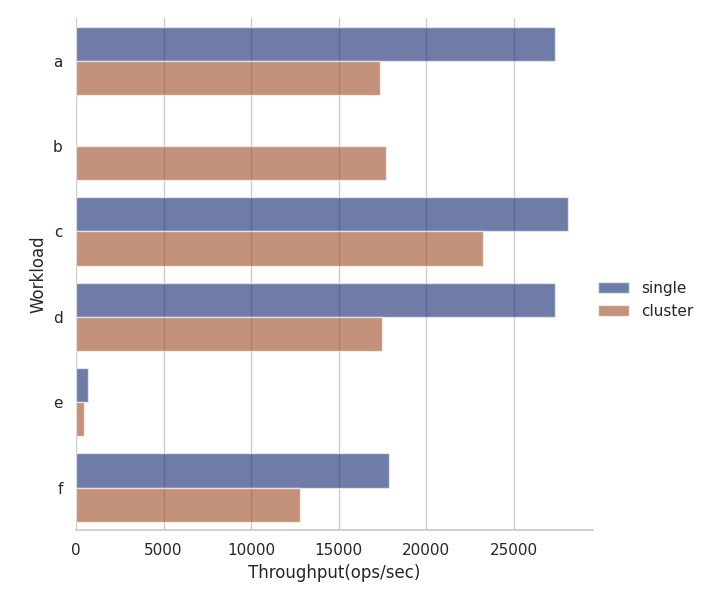
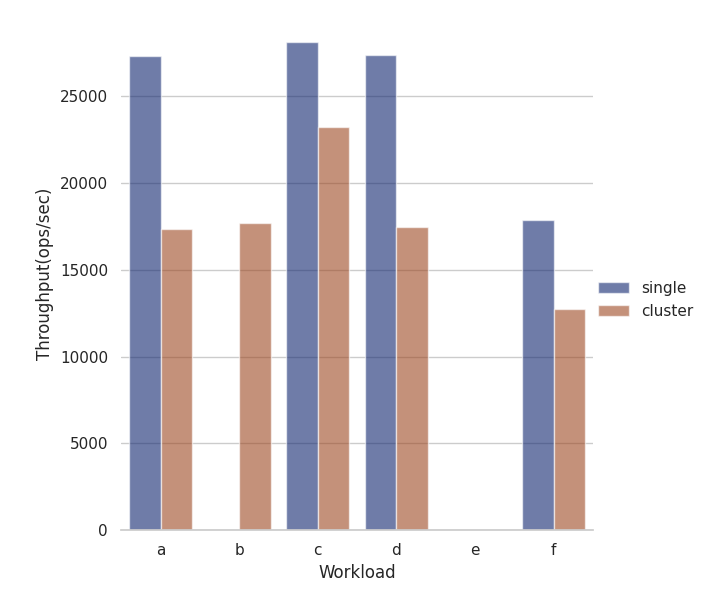
[Pic] Add more pictures

diff --git a/visualize/visual.py b/visualize/visual.py
@@ -13,7 +13,10 @@ pic_path.mkdir(parents=True, exist_ok=True)
 def cat_plot(dataset, x_name, y_name, hue_name, out_name, o='v'):
     sns.set_theme(style="whitegrid")
     
-    workload_order = ['a', 'b', 'c', 'd', 'e', 'f']
+    # if y_name == ''
+    order = None
+    workload_order = sorted(dataset['Workload'].unique())
+    print(workload_order)
     cluster_order = ['single', 'cluster']
     if hue_name == 'Workload':
         hue_order = workload_order
@@ -28,6 +31,7 @@ def cat_plot(dataset, x_name, y_name, hue_name, out_name, o='v'):
         ci="sd", palette="dark", alpha=.6, height=6,
         orient=o,
     )
+    
     g.despine(left=True)
     g.set_axis_labels(x_name, y_name)
     g.legend.set_title("")
@@ -35,39 +39,12 @@ def cat_plot(dataset, x_name, y_name, hue_name, out_name, o='v'):
     g.fig.savefig(fig_path) 
     return fig_path
 
-def bar_plot(dataset, x1_name, x2_name, y_name, hue_name, out_name):
-    sns.set_theme(style="whitegrid")
-
-    # Initialize the matplotlib figure
-    f, ax = plt.subplots(figsize=(6, 15))
-
-    # d = dataset.sort_values("hue_name", ascending=True)
-
-    # Plot the total crashes
-    sns.set_color_codes("pastel")
-    sns.barplot(x=x1_name, y=y_name, data=dataset,
-                label=x1_name, color="b")
-
-    # Plot the crashes where alcohol was involved
-    # sns.set_color_codes("muted")
-    # sns.barplot(x=x2_name, y=y_name, data=dataset,
-    #             label=x2_name, color="b")
-
-    # Add a legend and informative axis label
-    ax.legend(ncol=2, loc="lower right", frameon=True)
-    ax.set(ylabel="y label", xlabel="x label")
-    sns.despine(left=True, bottom=True)
-    
-    fig_path = pic_path / f"{out_name}-bar.png"
-    f.savefig(fig_path) 
-    return fig_path
-
-def draw(db=None, wl=None, rc=None, cm=False, o='v'):
+def draw(db=None, wl=None, rc=None, cm=False, matric='T', o='v'):
     db = db if db else '*'
     wl = wl if wl else '*'
     rc = rc if rc else '*'
-    mn = mn if cm else '*'
-    test_name = f'{db}-{wl}-{rc}-{mn}'
+    cm = cm if cm else '*'
+    test_name = f'{db}-{wl}-{rc}-{cm}'
     res = parse_all(test_name)
     
     data = []
@@ -75,25 +52,84 @@ def draw(db=None, wl=None, rc=None, cm=False, o='v'):
         infos = r[0]
         db, workload, count, cluster = infos['db'], infos['workload'], infos['count'], infos['cluster']
         matrics = r[1]
+        
+        # for m, v in matrics.items():
+        #     print(m, v)
+        # exit(0)
         try:
-            data.append([db, workload, count, cluster, matrics['overall-Throughput(ops/sec)']])
+            a = [db, workload, count, cluster, 
+                 matrics['overall-Throughput(ops/sec)'], matrics['overall-RunTime(ms)']]
+            if 'read-AverageLatency(us)' in matrics:
+                a.append(matrics['read-AverageLatency(us)'])
+                a.append(matrics['read-MinLatency(us)'])
+                a.append(matrics['read-MaxLatency(us)'])
+                a.append(matrics['read-95thPercentileLatency(us)'])
+                a.append(matrics['read-99thPercentileLatency(us)'])
+            data.append(a)
         except:
-            print(matrics)
+            print('error:', db, workload, count, cluster)
 
     if not data:
         return
     
-    df = pd.DataFrame(data, columns=['Database', 'Workload', 'Record Count', 'Cluster', 'Throughput(ops/sec)'])
+    df = pd.DataFrame(data, columns=[
+        'Database', 'Workload', 'Record Count', 'Cluster', 
+        'Throughput(ops/sec)', 
+        'RunTime(ms)', 
+        'AverageLatency(us)', 
+        'MinLatency(us)', 
+        'MaxLatency(us)', 
+        '95thPercentileLatency(us)', 
+        '99thPercentileLatency(us)'
+        ])
     print(df)
     
-    if mn != '*':
-        p = cat_plot(df, x_name='Database', y_name='Throughput(ops/sec)', hue_name='Workload', out_name=test_name, o=o)
+    y_name = 'Throughput(ops/sec)'
+    if matric == 'R':
+        y_name = 'RunTime(ms)'
     else:
-        # p = bar_plot(df, x1_name='Throughput(ops/sec)', x2_name='', y_name='Workload', hue_name='Workload', out_name=test_name)
-        p = cat_plot(df, x_name='Throughput(ops/sec)', y_name='Workload', hue_name='Cluster', out_name=test_name, o=o)
+        # drop workload E
+        df = df[df['AverageLatency(us)'].notnull()]
+        
+        if matric == 'L':
+            y_name = 'AverageLatency(us)'
+        elif matric == 'L95':
+            y_name = '95thPercentileLatency(us)'
+        elif matric == 'L99':
+            y_name = '99thPercentileLatency(us)'
+        elif matric == 'LA':
+            g = sns.lineplot(data=df[['AverageLatency(us)', 
+                                      '95thPercentileLatency(us)', 
+                                      '99thPercentileLatency(us)',
+                                      'MinLatency(us)', 
+                                      'MaxLatency(us)']])
+            fig = g.get_figure()
+            fig.savefig(pic_path / (test_name+f'-{matric}.png'))
+            g.set_xlabel(x_name)
+            g.set_ylabel(y_name)
+            exit(0)
+        elif matric == 'LL':
+            df = df[df['Cluster'] == 'single'].sort_values(by="Workload")
+            print(df)
+            g = sns.lineplot(data=df[['AverageLatency(us)', 
+                                      '95thPercentileLatency(us)', 
+                                      '99thPercentileLatency(us)']])
+            # x_axis = df['Workload'].values
+            # print('x_axis', x_axis)
+            # g.set_xticks(range(len(x_axis)), x_axis)
+            g.get_figure().savefig(pic_path / (test_name+f'-{matric}.png')) 
+            # g.set_xlabel(x_name)
+            g.set_ylabel(y_name)
+            exit(0)
+    
+    if cm != '*':
+        x_name = 'Database'
+        p = cat_plot(df, x_name=x_name, y_name=y_name, hue_name='Workload', out_name=test_name+f'-{matric}', o=o)
+    else:
+        x_name = 'Workload'
+        p = cat_plot(df, x_name=x_name, y_name=y_name, hue_name='Cluster', out_name=test_name+f'-{matric}', o=o)
 
     print(f'output to: {p}')
-    
 
     
 if __name__ == '__main__':
@@ -103,11 +139,11 @@ if __name__ == '__main__':
     # import matplotlib
     # print(matplotlib.get_backend())
     if sys.argv[1] == 'single':
-        draw(rc=int(sys.argv[2]), cm=sys.argv[1])
+        draw(rc=int(sys.argv[2]), cm=sys.argv[1], matric=sys.argv[3])
     elif sys.argv[1] == 'cluster':
-        draw(rc=int(sys.argv[2]), cm=sys.argv[1])
+        draw(rc=int(sys.argv[2]), cm=sys.argv[1], matric=sys.argv[3])
     elif sys.argv[1] == 'redis':
-        draw(db='redis', rc=int(sys.argv[2]), o='h')
+        draw(db='redis', rc=int(sys.argv[2]), matric=sys.argv[3])
     else:
-        print('Usage: [single|cluster|redis|memcached] recordcount')
+        print('Usage: [single|cluster|redis|memcached] recordcount [T|L|L95|L99|LA|LL]')
         
